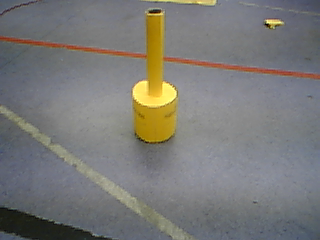
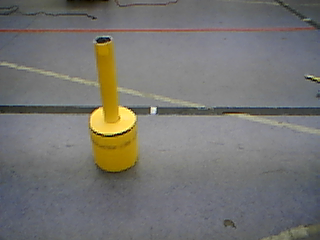
add first testpicture with exact position

diff --git a/layer/dataanalysis/cameratest.h b/layer/dataanalysis/cameratest.h
@@ -30,7 +30,7 @@ namespace DataAnalysis
 		CPPUNIT_TEST(getAllCameraObjects_yellowAndBluePuckAndGreenBorderstone_cameraObjectsCountIs3);
 		CPPUNIT_TEST(getAllCameraObjects_yellowPuckTwiceAndGreenBorderstone_cameraObjectsCountIs3);
 		CPPUNIT_TEST(getAllCameraObjects_yellowPuckTwiceAndGreenBorderstone1_cameraObjectsCountIs3);
-		CPPUNIT_TEST(getAllCameraObjects_yellowPuck_cameraObjectPositonIsUnknown);
+		CPPUNIT_TEST(getAllCameraObjects_yellowPuck_cameraObjectPositonIs0p6And0p1);
 		CPPUNIT_TEST_SUITE_END();
 
 	private:
@@ -52,7 +52,7 @@ namespace DataAnalysis
 		void getAllCameraObjects_yellowPuckTwiceAndGreenBorderstone1_cameraObjectsCountIs3();
 		//!@todo alte testbilder durhc neue ersetzten mit abgemessenen entfernungen
 		// test für erste ausgabe von getPosition --> werte sehen plausibel aus
-		void getAllCameraObjects_yellowPuck_cameraObjectPositonIsUnknown();
+		void getAllCameraObjects_yellowPuck_cameraObjectPositonIs0p6And0p1();
 
 	};
 }

diff --git a/layer/dataanalysis/cameratest.cpp b/layer/dataanalysis/cameratest.cpp
@@ -138,10 +138,10 @@ void CameraTest::getAllCameraObjects_yellowPuckTwiceAndGreenBorderstone1_cameraO
 	CPPUNIT_ASSERT_EQUAL((size_t)3, camera.getAllCameraObjects(RobotPosition()).getObjectCount());
 }
 
-void CameraTest::getAllCameraObjects_yellowPuck_cameraObjectPositonIsUnknown()
+void CameraTest::getAllCameraObjects_yellowPuck_cameraObjectPositonIs0p6And0p1()
 {
 	Hardware::CameraMock hardwareCamera("yellow_puck");
 	CameraImpl camera(hardwareCamera);
 
-	CPPUNIT_ASSERT_EQUAL(Point(0,0), camera.getAllCameraObjects(RobotPosition(Point(0,0))).getAllCameraObjects().front().getPosition());
+	CPPUNIT_ASSERT_EQUAL(Point(0.6,0.1), camera.getAllCameraObjects(RobotPosition(Point(0,0))).getAllCameraObjects().front().getPosition());
 }
